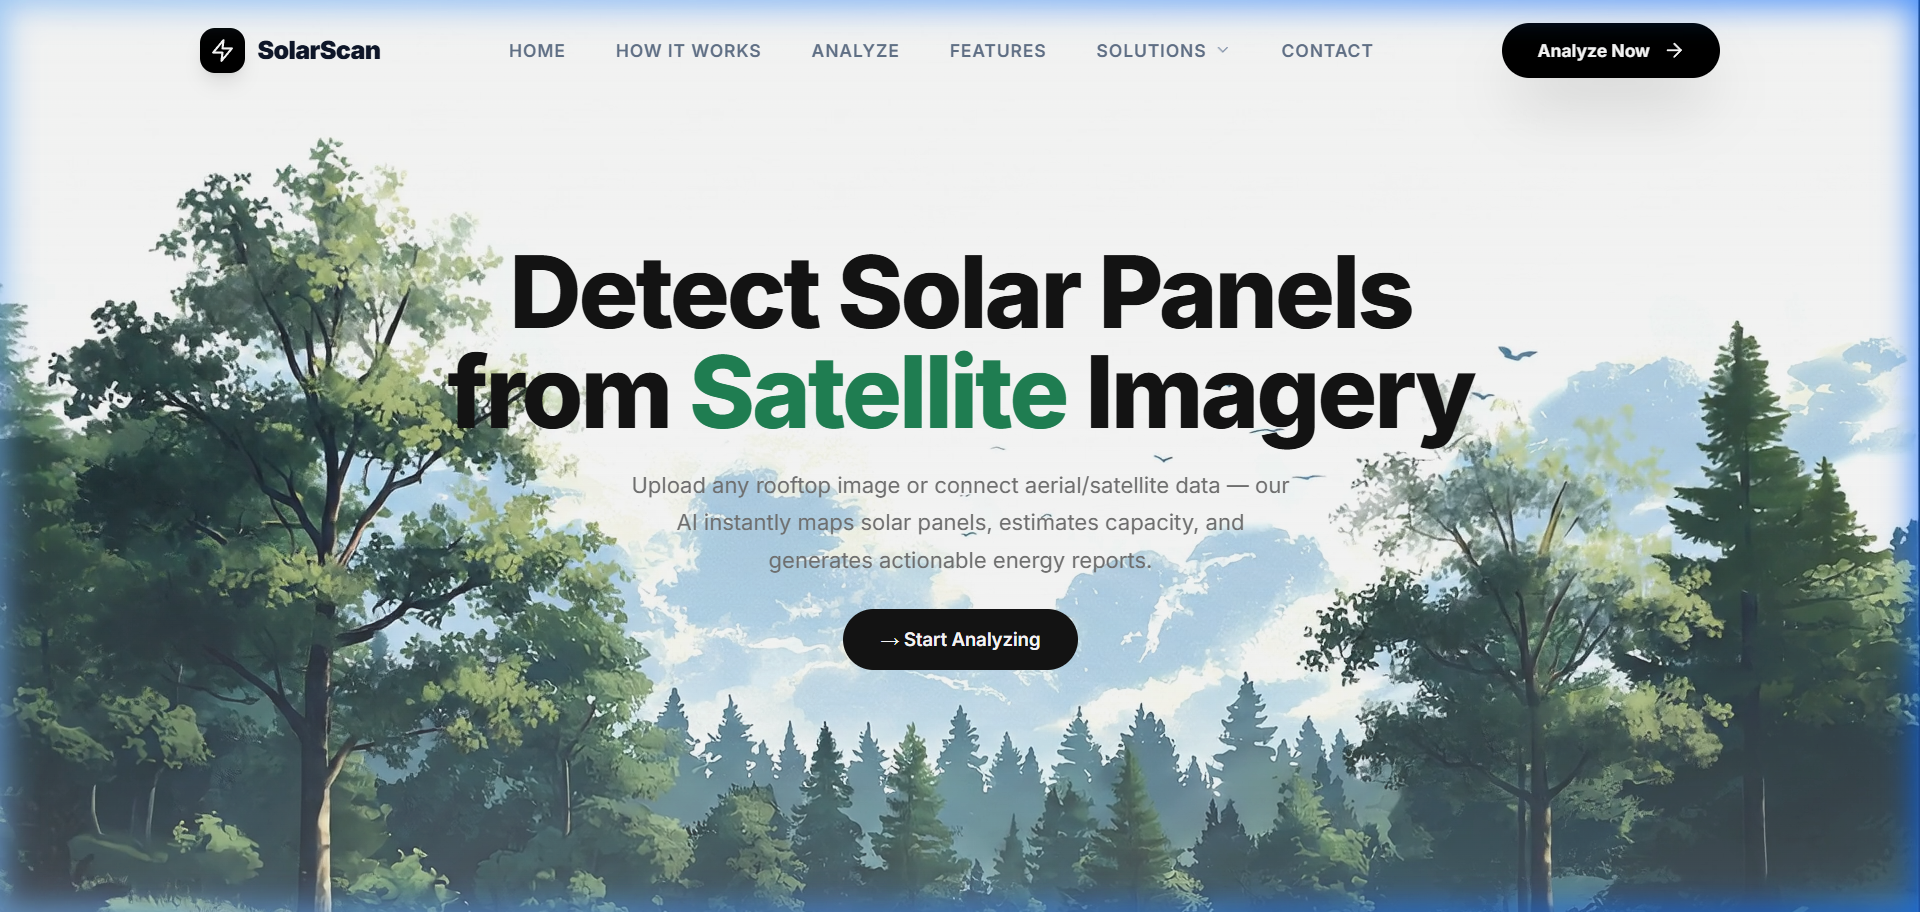
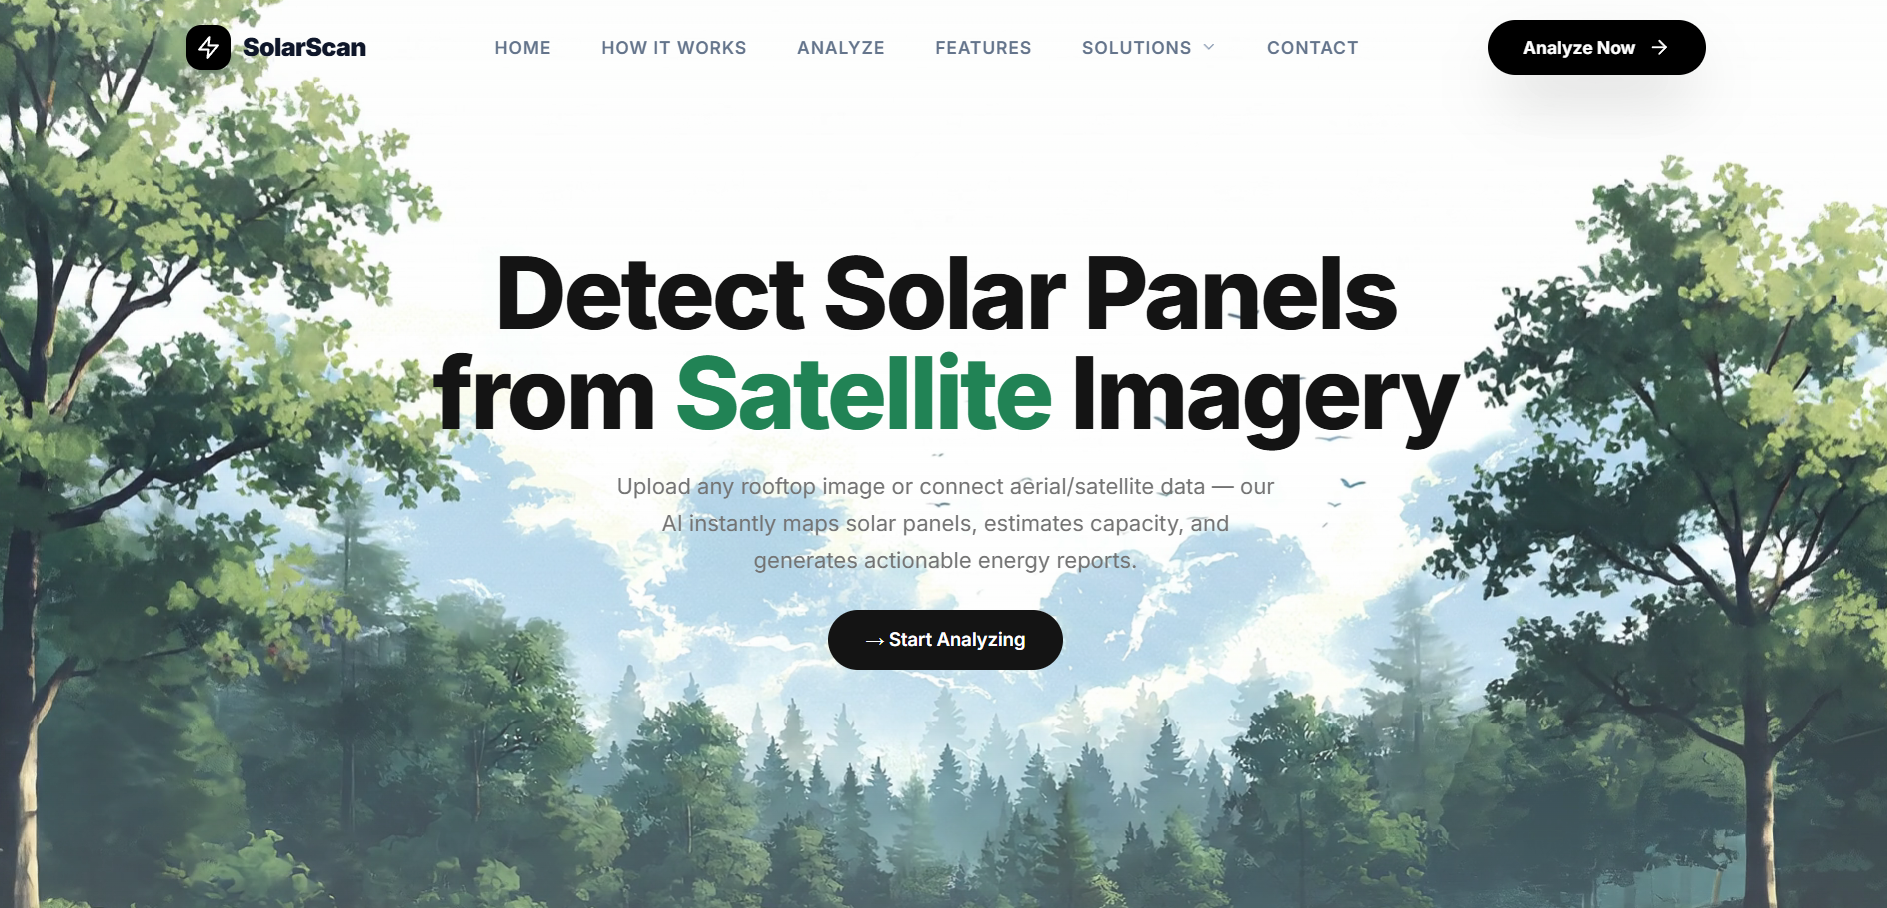
Secure API key management and deployment configuration for Vercel/Render

diff --git a/frontend/src/App.jsx b/frontend/src/App.jsx
@@ -48,7 +48,14 @@ function App() {
           // Final fallback
           const lat = parseFloat(data.data?.lat) || 0;
           const lng = parseFloat(data.data?.lng) || 0;
-          overlayImage = `https://maps.googleapis.com/maps/api/staticmap?center=${lat},${lng}&zoom=19&size=400x400&maptype=satellite&key=YOUR_API_KEY`;
+          const mapsApiKey = import.meta.env.VITE_GOOGLE_MAPS_API_KEY;
+          if (mapsApiKey && mapsApiKey !== 'YOUR_API_KEY') {
+            overlayImage = `https://maps.googleapis.com/maps/api/staticmap?center=${lat},${lng}&zoom=19&size=400x400&maptype=satellite&key=${mapsApiKey}`;
+          } else {
+            // No API key available for fallback map
+            overlayImage = null;
+          }
+
         }
 
         // Transform API response to match the expected JSON format

diff --git a/src/api.py b/src/api.py
@@ -285,11 +285,8 @@ async def predict_by_coords(lat: float, lng: float, confidence: float = 0.5):
             img_path.unlink()
         # Keep overlay file for potential debugging
         
-        # Add the satellite image URL to the response
-        satellite_url = f"https://maps.googleapis.com/maps/api/staticmap?center={lat},{lng}&zoom=19&size=400x400&maptype=satellite&key={maps_client.config.api_key}"
-        api_result["satellite_image_url"] = satellite_url
-        
         return api_result
+
         
     except Exception as e:
         return {

diff --git a/README.md b/README.md
@@ -621,7 +621,7 @@ For issues or questions, open a GitHub issue or reach out to the maintainer.
 
 ---
 
-**Last Updated**: 2025-12-14  
-**Docker Image**: `dheerajjk/rooftop-solar-cpu:latest`  
-**Docker Hub**: https://hub.docker.com/r/dheerajjk/rooftop-solar-cpu  
-**Training Colab**: https://colab.research.google.com/drive/1Cl9KowI1deMolhE3wjfg165TRbDsuX4-?usp=sharing
+
+
+**Last Updated**: 2026-03-26  
+
